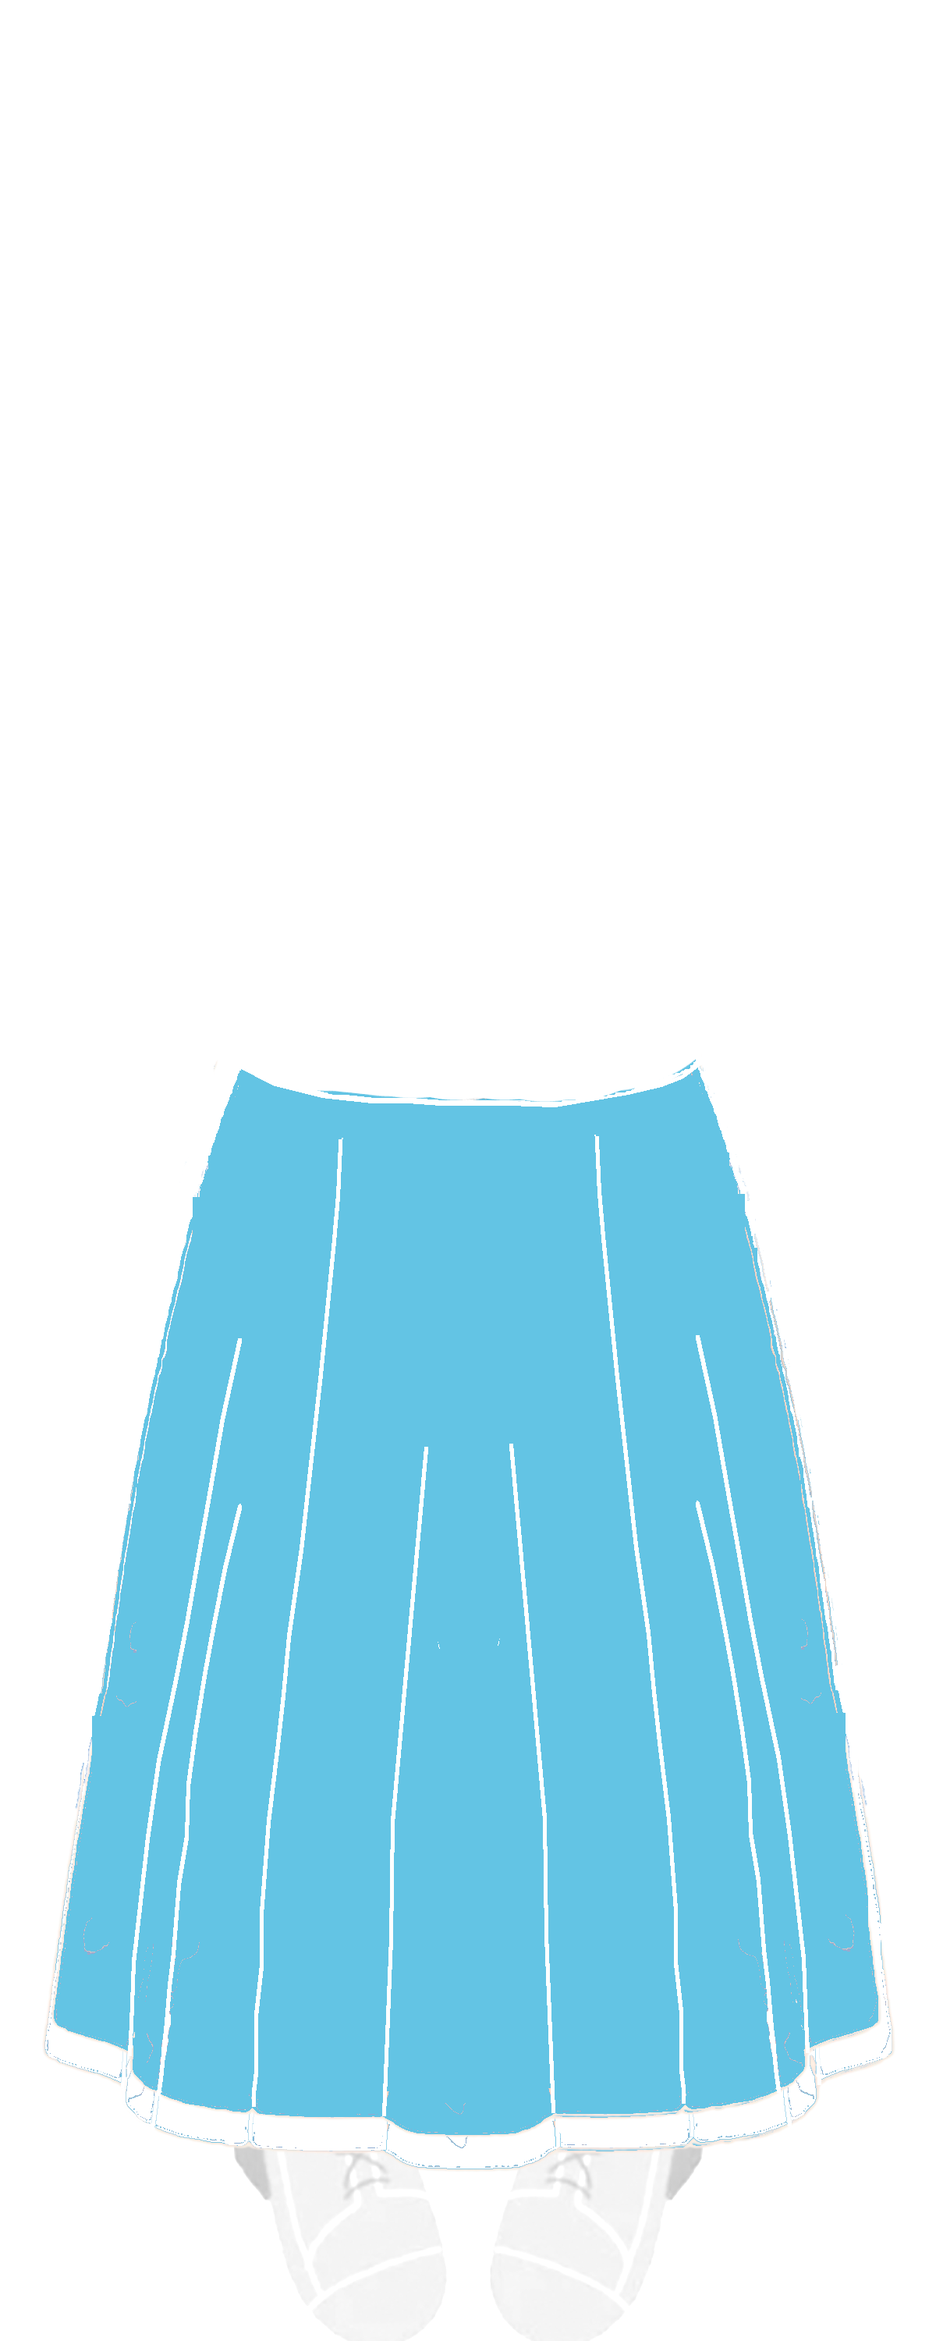
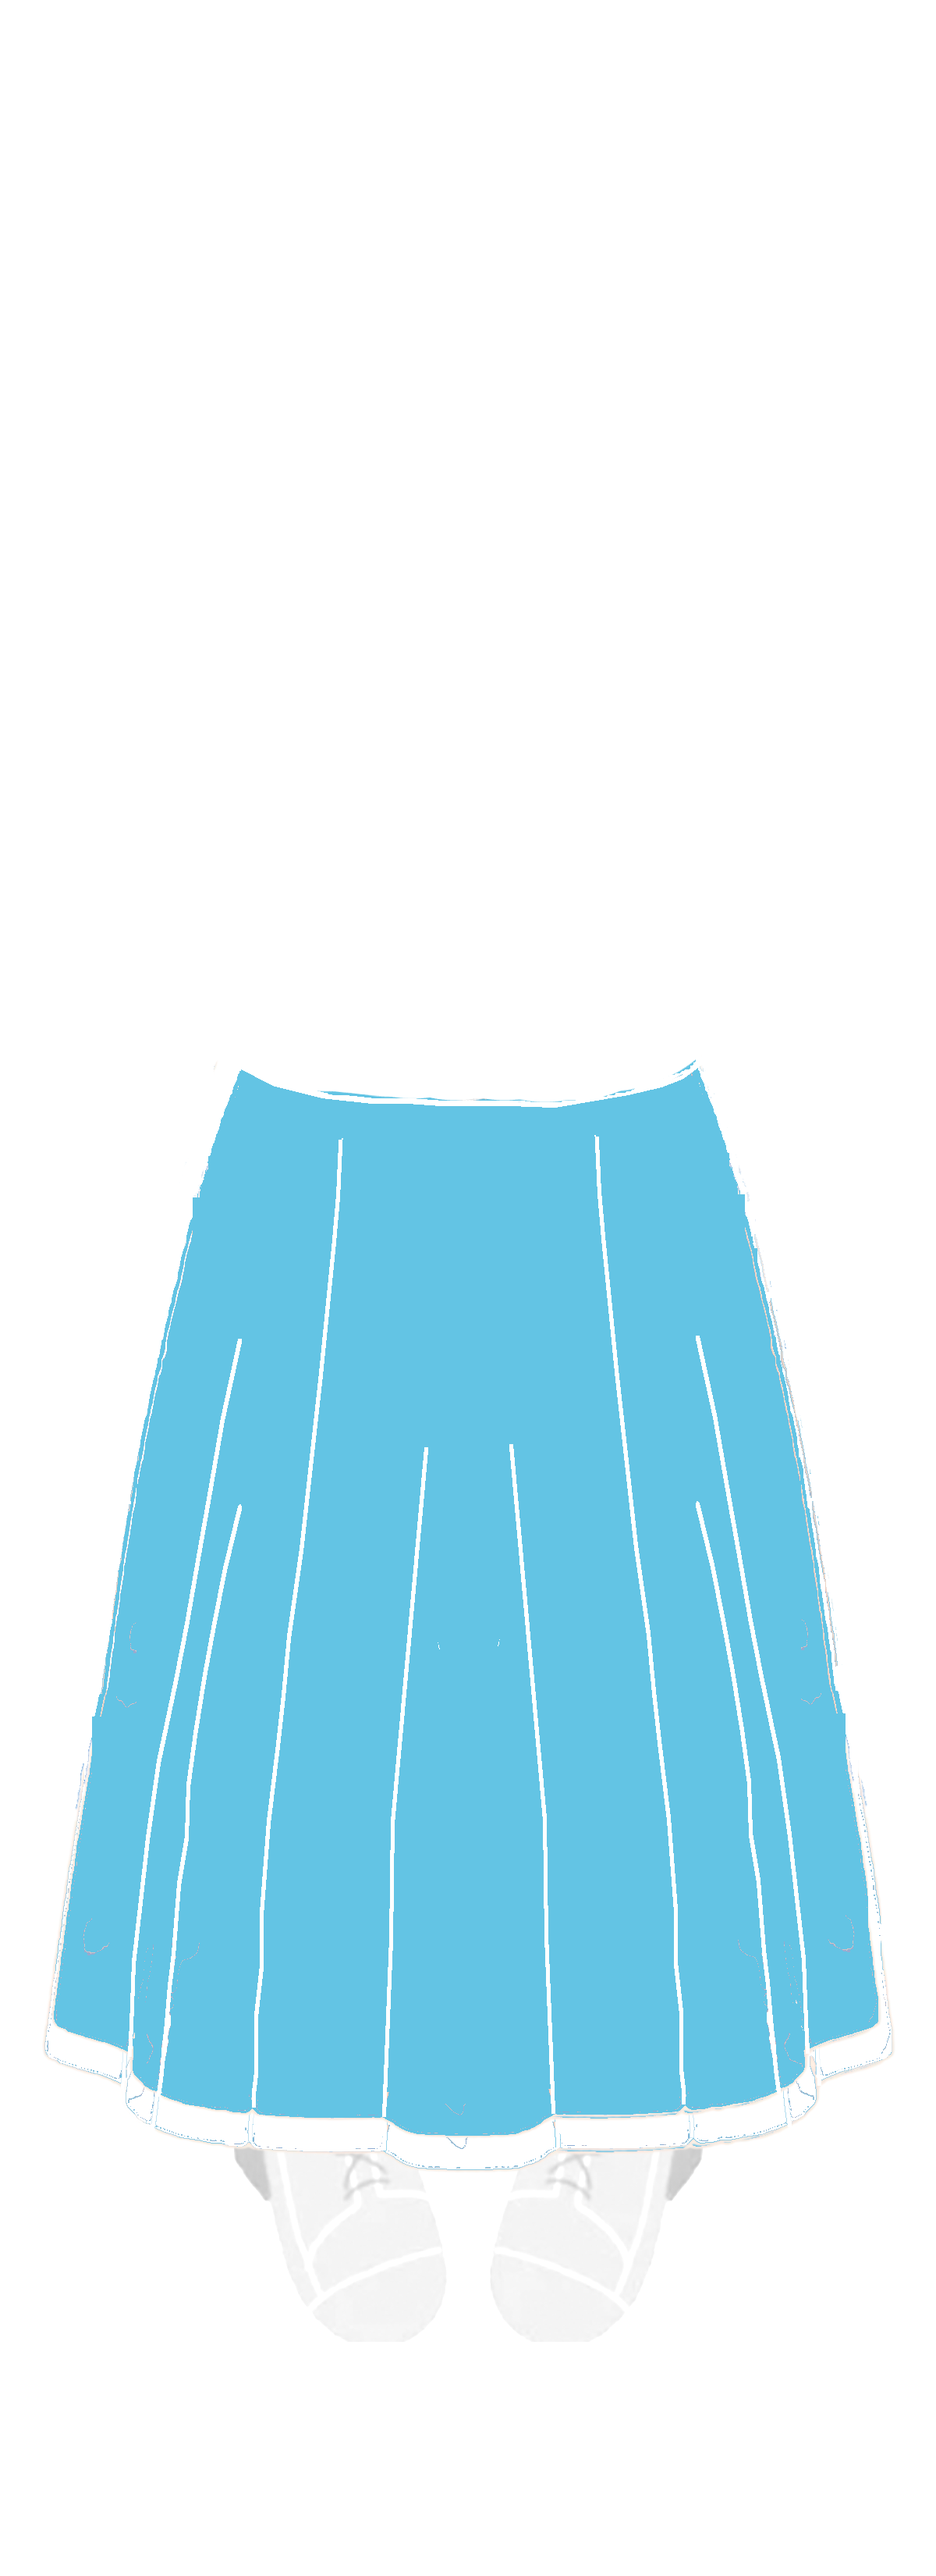
larger canvas and better she

Changed region(s): [[0.0308, 0.403, 0.9558, 0.961], [0.74, 0.651, 0.7708, 0.682], [0.5242, 0.558, 0.555, 0.589]]

diff --git a/src/App.js b/src/App.js
@@ -10,12 +10,13 @@ import joshIcon from './images/icons/josh-icon.png';
 // Dolls
 import doll1 from './images/dolls/she.png';
 import doll2 from './images/dolls/he.png';
-import doll3 from './images/dolls/josh.png';
+// import doll3 from './images/dolls/josh.png';
+import doll3 from './images/dolls/josh2.png';
 
 // Empty
 import clear from './images/icons/clear.png'
 import empty from './images/icons/empty.png'
-// import empty from './images/icons/empty2.png'
+import stage from './images/icons/stage.png' // CG
 
 // Sweeney Todd
 import lovettT from './images/sweeney_todd/lovett_top.png';
@@ -126,7 +127,8 @@ const Doll = ({ dollIndex, currentTop, currentBottom }) => {
   console.log(dollIndex)
   return (
     <div className="doll-container">
-      <img className="doll-img background" src={dolls[dollIndex]} alt={`Doll ${dollIndex}`} />
+      <img className="doll-img background" src={stage} alt={"paper doll stage"} />
+      <img className="doll-img doll" src={dolls[dollIndex]} alt={`Doll ${dollIndex}`} />
       <img className="overlay-top overlay" src={currentTop} />
       <img className="overlay-bottom overlay" src={currentBottom} />
     </div>
@@ -183,6 +185,7 @@ const About = () => {
           <li>Select a "doll" icon in the top right.</li>
           <li>Select an "era" from the list to reveal its associated outfits.</li>
           <li>Click a "top" or "bottom" to see it appear on your doll.</li>
+          <li>Click the empty hanger if you want to undo a selection.</li>
           <li>Toggle between eras to mix&amp;match your costumes.</li>
           <li>Explore gender-agnostic styling – just like in a real Small &amp; Casual production!</li>
         </div>
@@ -213,6 +216,9 @@ export default function App() {
   const [currentTop, setCurrentTop] = useState(empty);
   const [currentBottom, setCurrentBottom] = useState(empty);
 
+  // const [currentTop, setCurrentTop] = useState(0);
+  // const [currentBottom, setCurrentBottom] = useState(0);
+
   const [tops, setTops] = useState([]);
   const [bottoms, setBottoms] = useState([]);
 
@@ -236,7 +242,7 @@ export default function App() {
     const natasha_bottoms = [[natashaBicon, natashaB], [pierreBicon, pierreB], [clear, empty]];
 
     const anne_tops = [[anneTicon, anneT], [gilbertTicon, gilbertT], [clear, empty]];
-    const anne_bottoms = [[anneBicon, anneB], [gilbertBicon, gilbertB]];
+    const anne_bottoms = [[anneBicon, anneB], [gilbertBicon, gilbertB], [clear, empty]];
 
     const my_fair_lady_tops = [[elizaTicon, elizaT], [higginsTicon, higginsT], [clear, empty]];
     const my_fair_lady_bottoms = [[elizaBicon, elizaB], [higginsBicon, higginsB], [clear, empty]];

diff --git a/src/App.css b/src/App.css
@@ -103,7 +103,7 @@ button.icon img.doll-icon {
 
 main {
     background-color: white;
-    width: 67%;
+    width: 60%;
     padding: 1rem;
     box-sizing: border-box;
     display: flex;
@@ -132,27 +132,45 @@ font-size: 112%;
   
   .doll-img, .overlay {
     position: absolute;
-    top: 50%;
+    /* top: 50%; */
+    top: 40%;
     left: 50%;
-    width: 40%;
+    width: 30%;
     height: auto;
     transform: translate(-50%, -50%);
   }
+
+  .background {
+    z-index: 1;
+    position: absolute;
+  }
+
+  .doll {
+    z-index: 2;
+    position: absolute;
+  }
+
+  .overlay-bottom {
+    z-index: 3;
+    position: absolute;
+  }
   
   .overlay-top {
-    z-index: 2;
+    z-index: 4;
+    position: absolute;
   }
   
-  .overlay-bottom {
-    z-index: 1;
-  }
+
+
+
+
 
 /* Sidebar */
 
 aside {
   background-color: #f4f4f4;
   color: #1A2B43;
-  width: 33%;
+  width: 40%;
   padding: 1rem;
   box-sizing: border-box;
   display: flex;
@@ -173,4 +191,8 @@ aside {
     object-fit: cover;
     cursor: pointer;
     margin-bottom: 0.625rem;
+  }
+
+  .tops img, .bottoms img {
+    vertical-align: top;
   }
